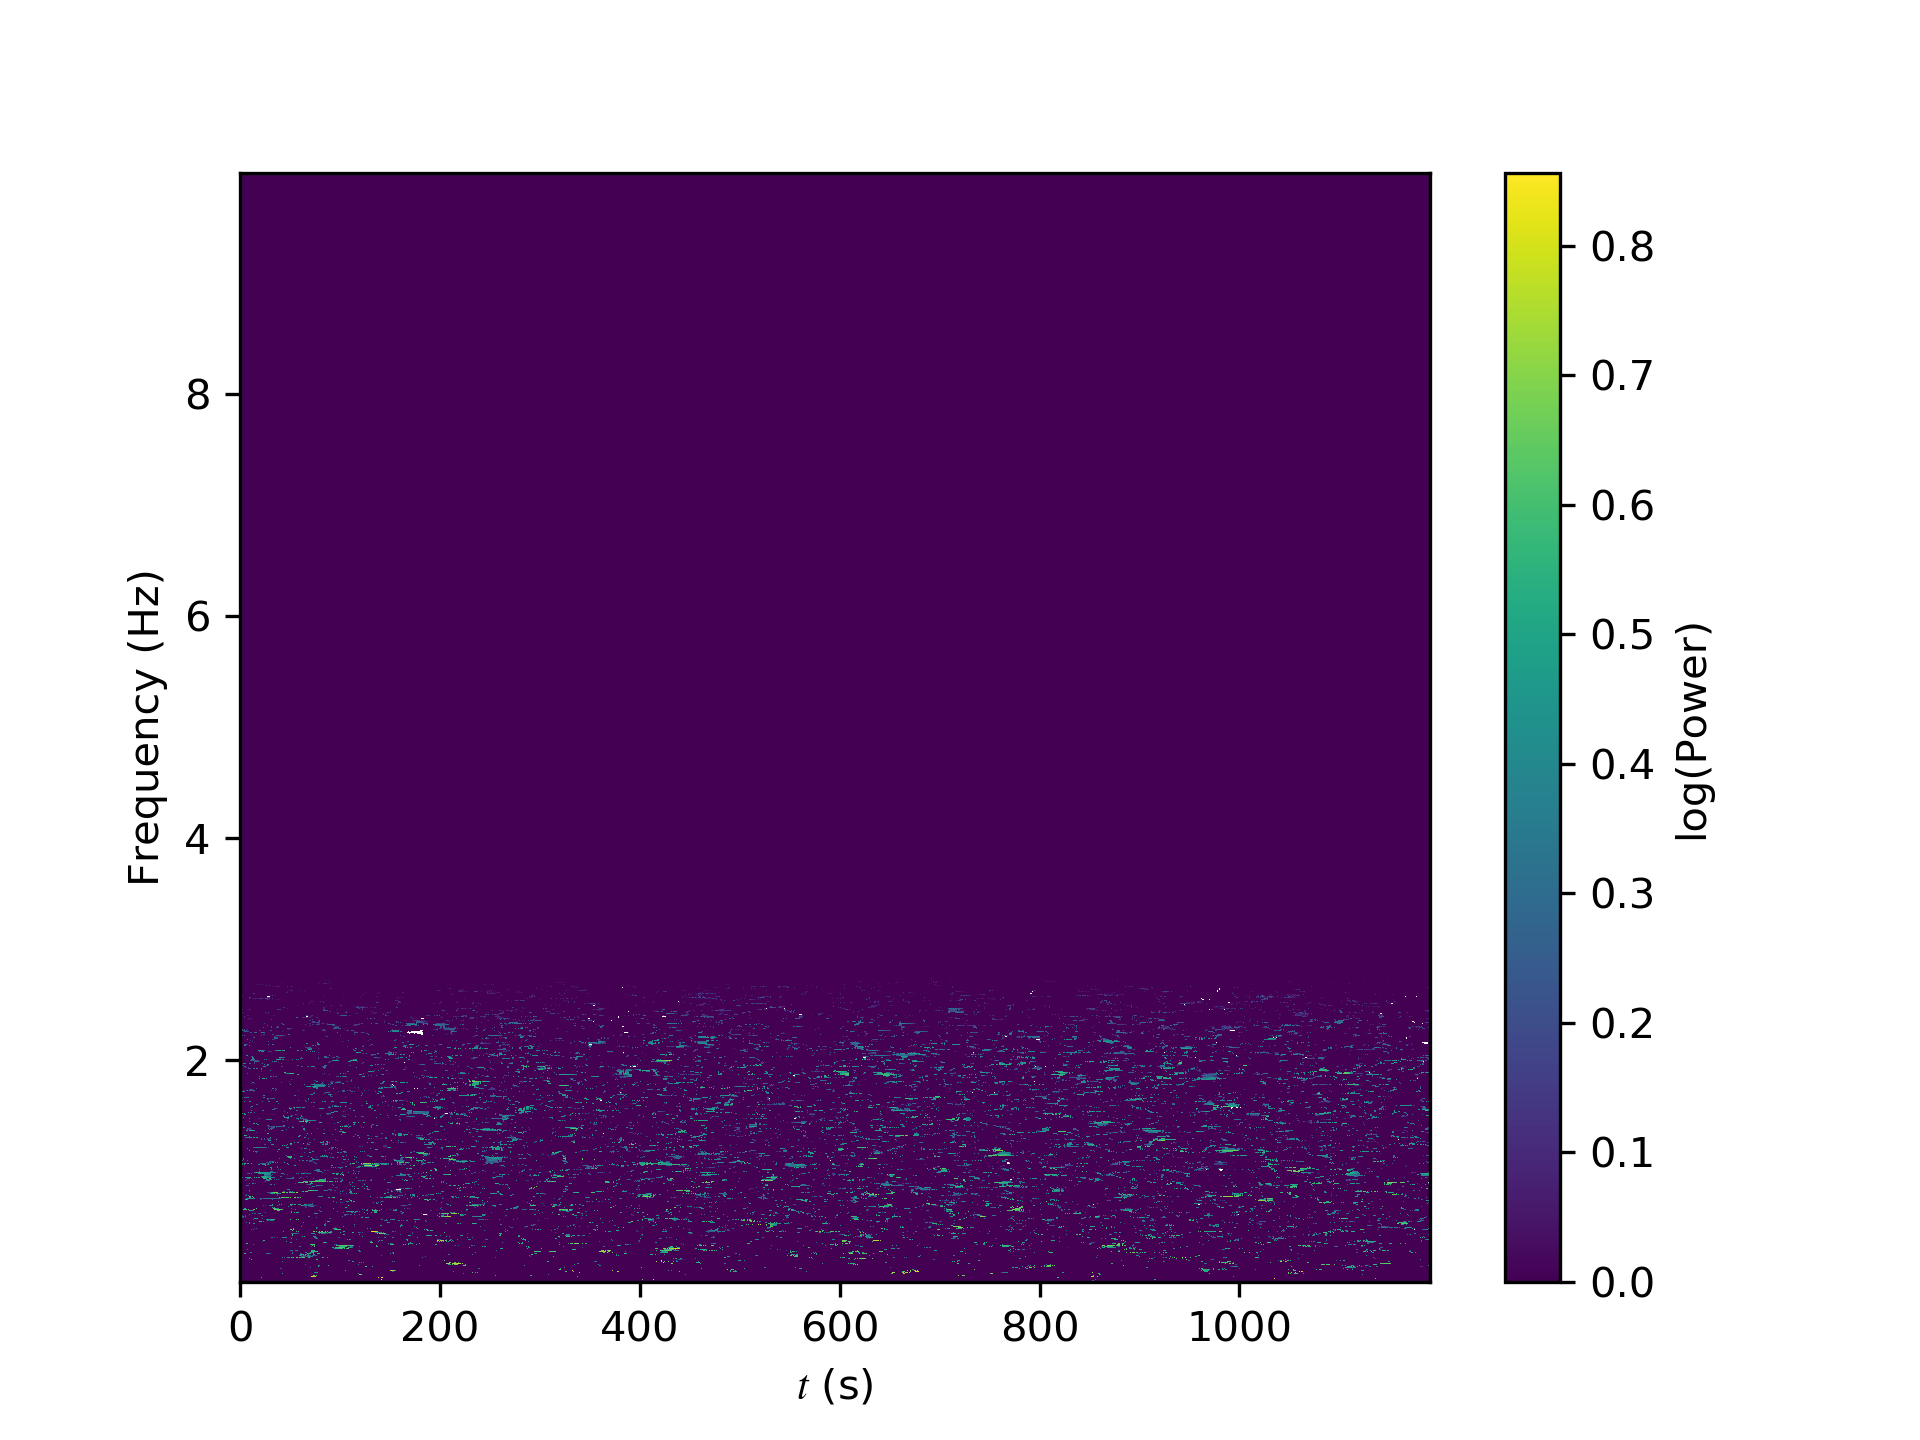
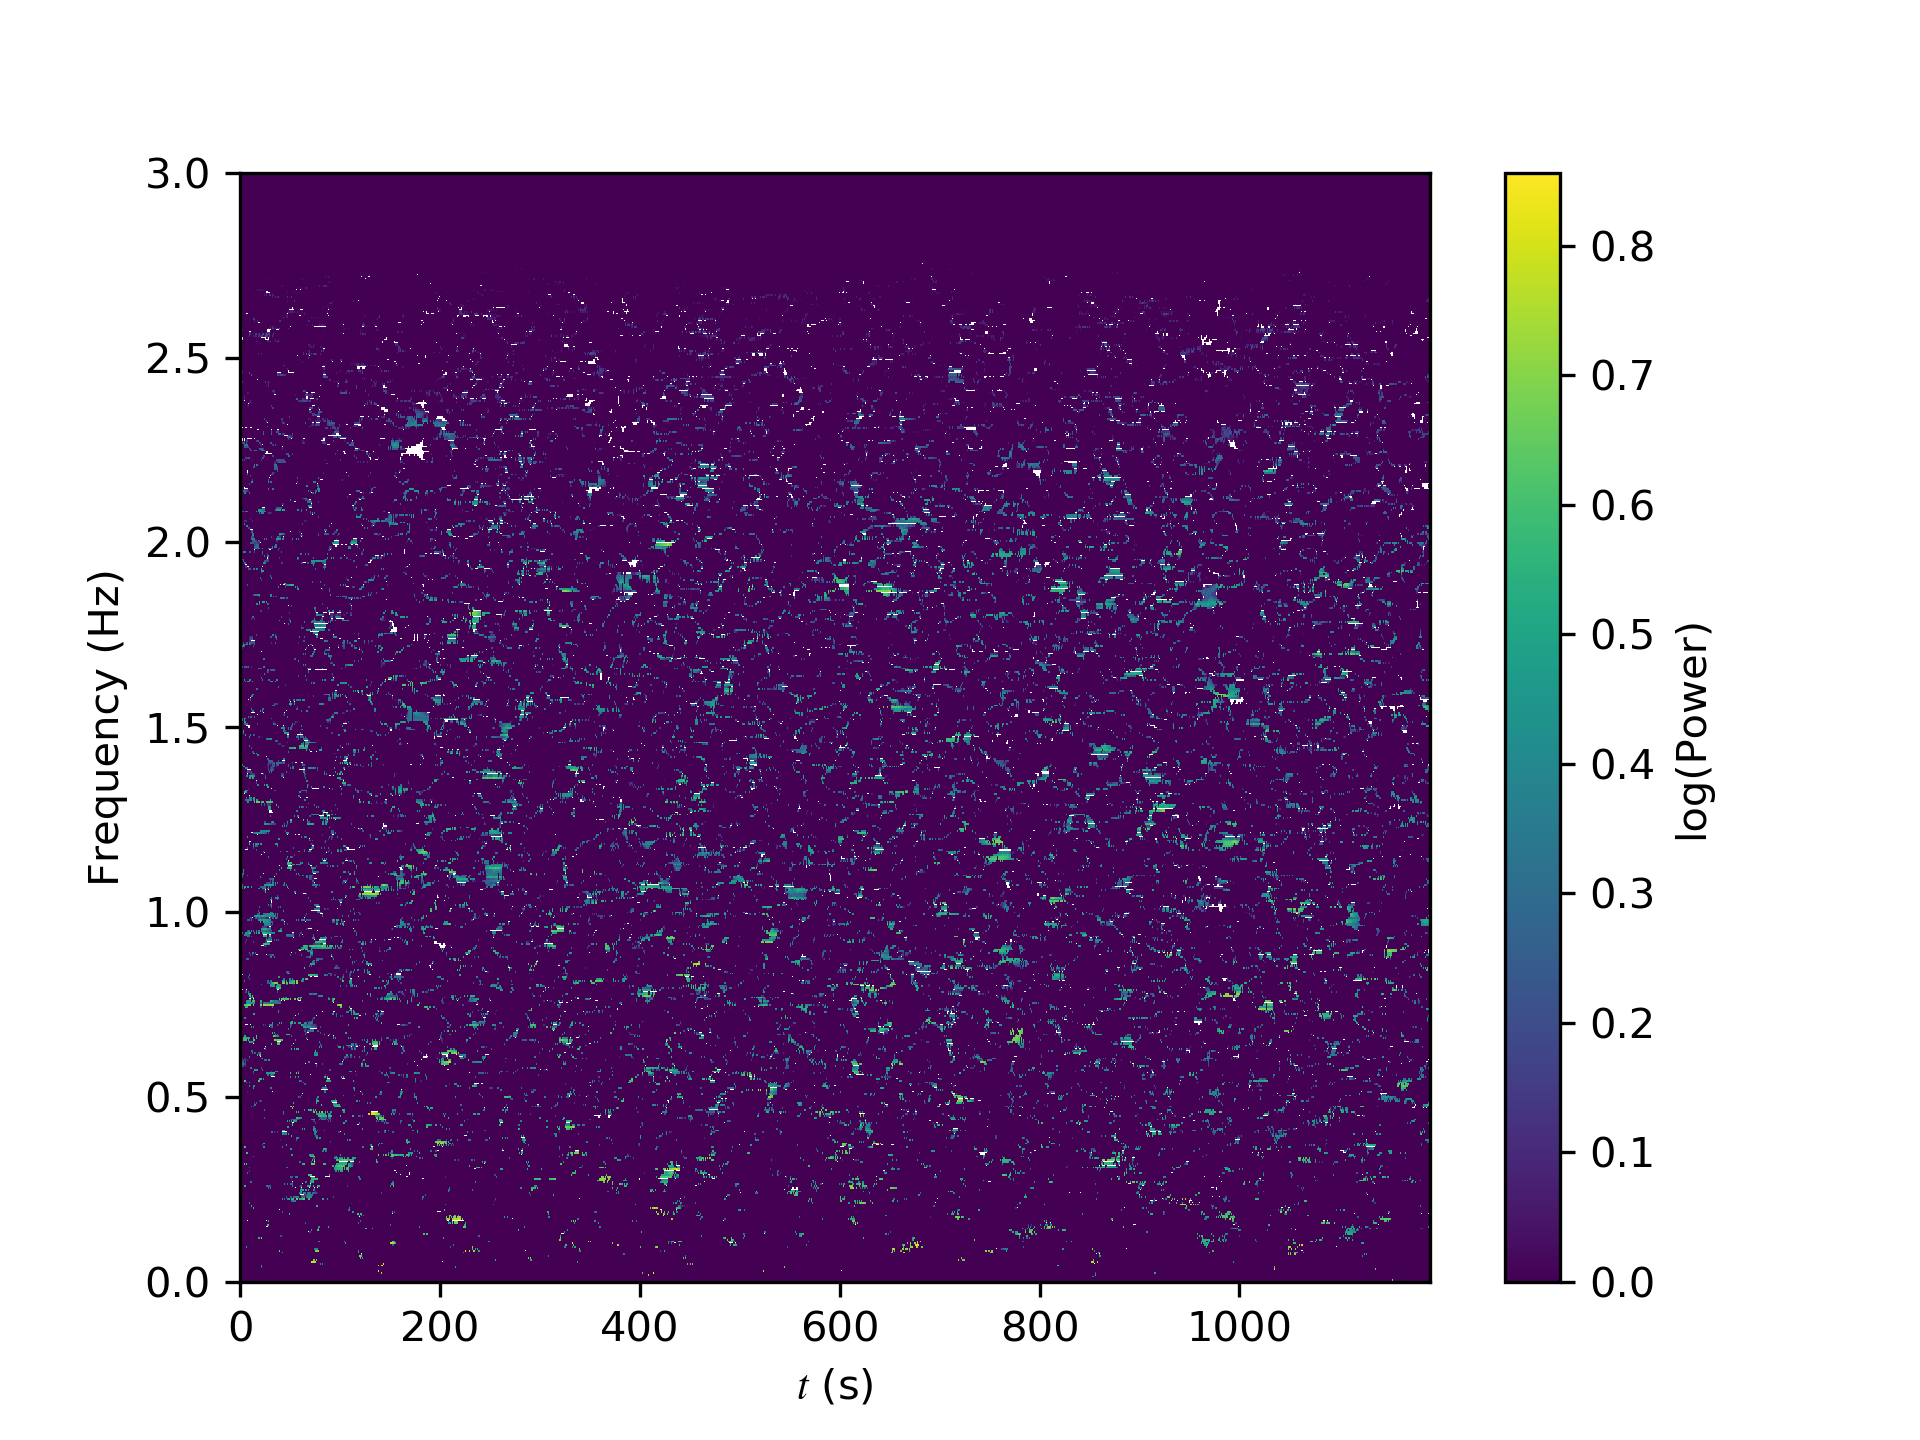
PROGRESS: modify figure

diff --git a/analysis/WholeDura/analysis/210324_LowFreqInXPS/lowfreq_in_xps.py b/analysis/WholeDura/analysis/210324_LowFreqInXPS/lowfreq_in_xps.py
@@ -214,6 +214,7 @@ def main():
 
         # plot mask
         im = plt.pcolormesh(time, freqs, np.log10(1+M))
+        plt.ylim(0, 3)
         plt.xlabel(r'$t$ (s)')
         plt.ylabel('Frequency (Hz)')
 
@@ -229,7 +230,7 @@ def main():
         plt.rcParams['xtick.direction'] = 'in'  # x axis in
         plt.rcParams['ytick.direction'] = 'in'  # y axis in
         plt.savefig('fig/spectrogram_xps.png', dpi=300)
-        plt.show()
+        # plt.show()
 
 
 if __name__ == '__main__':
